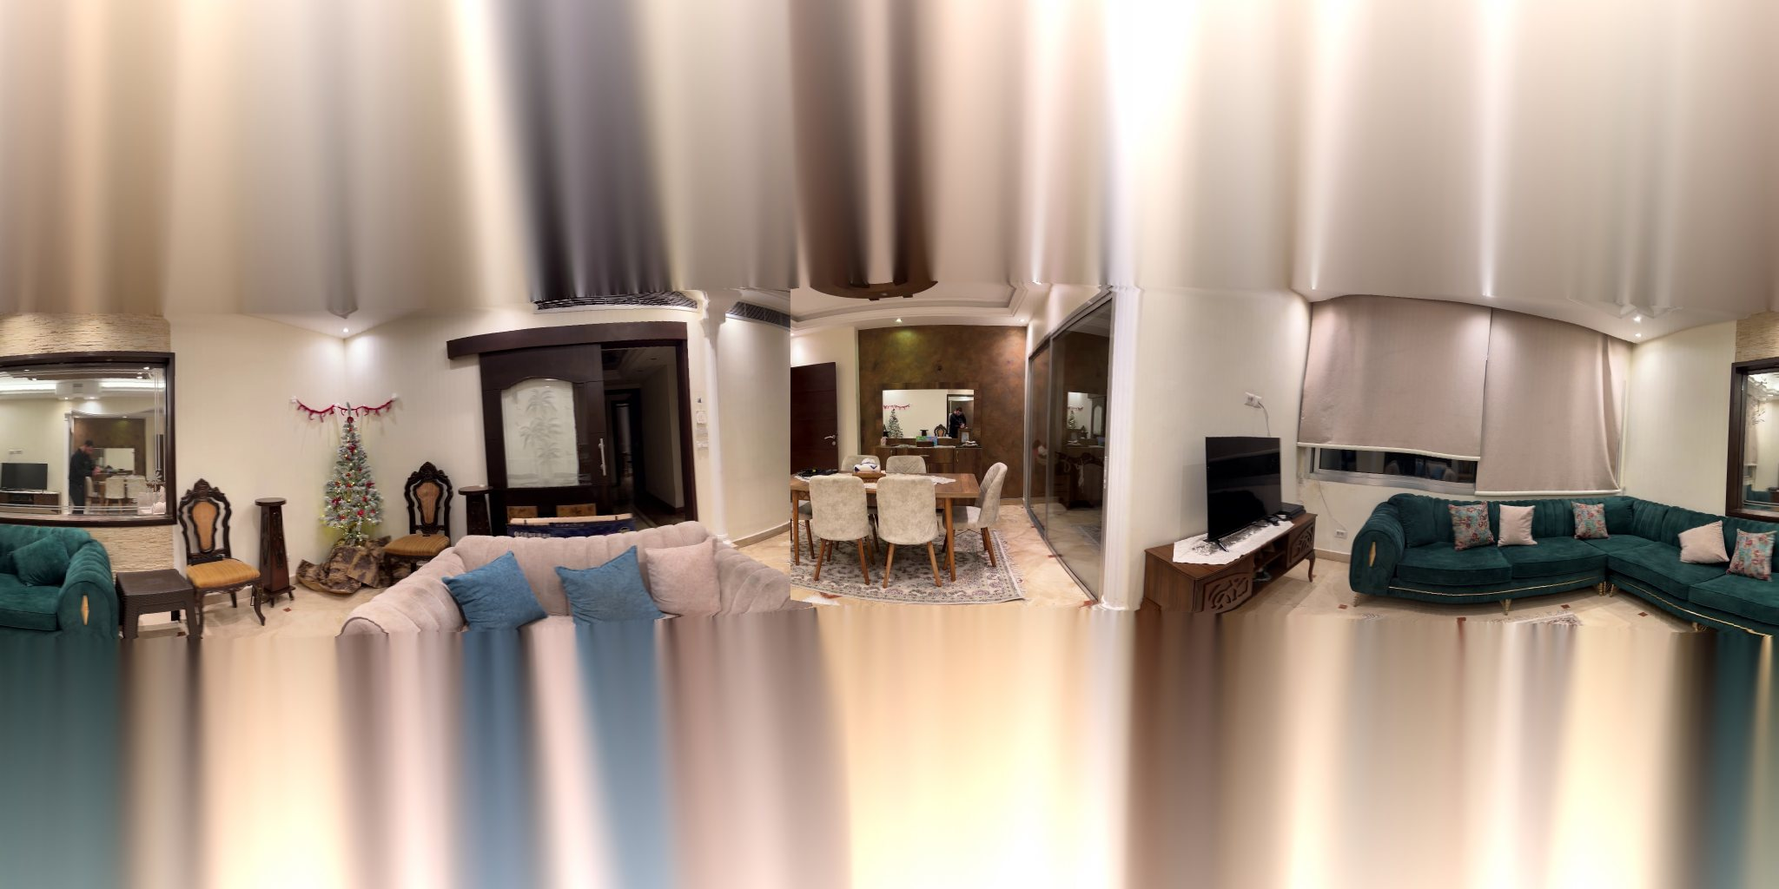
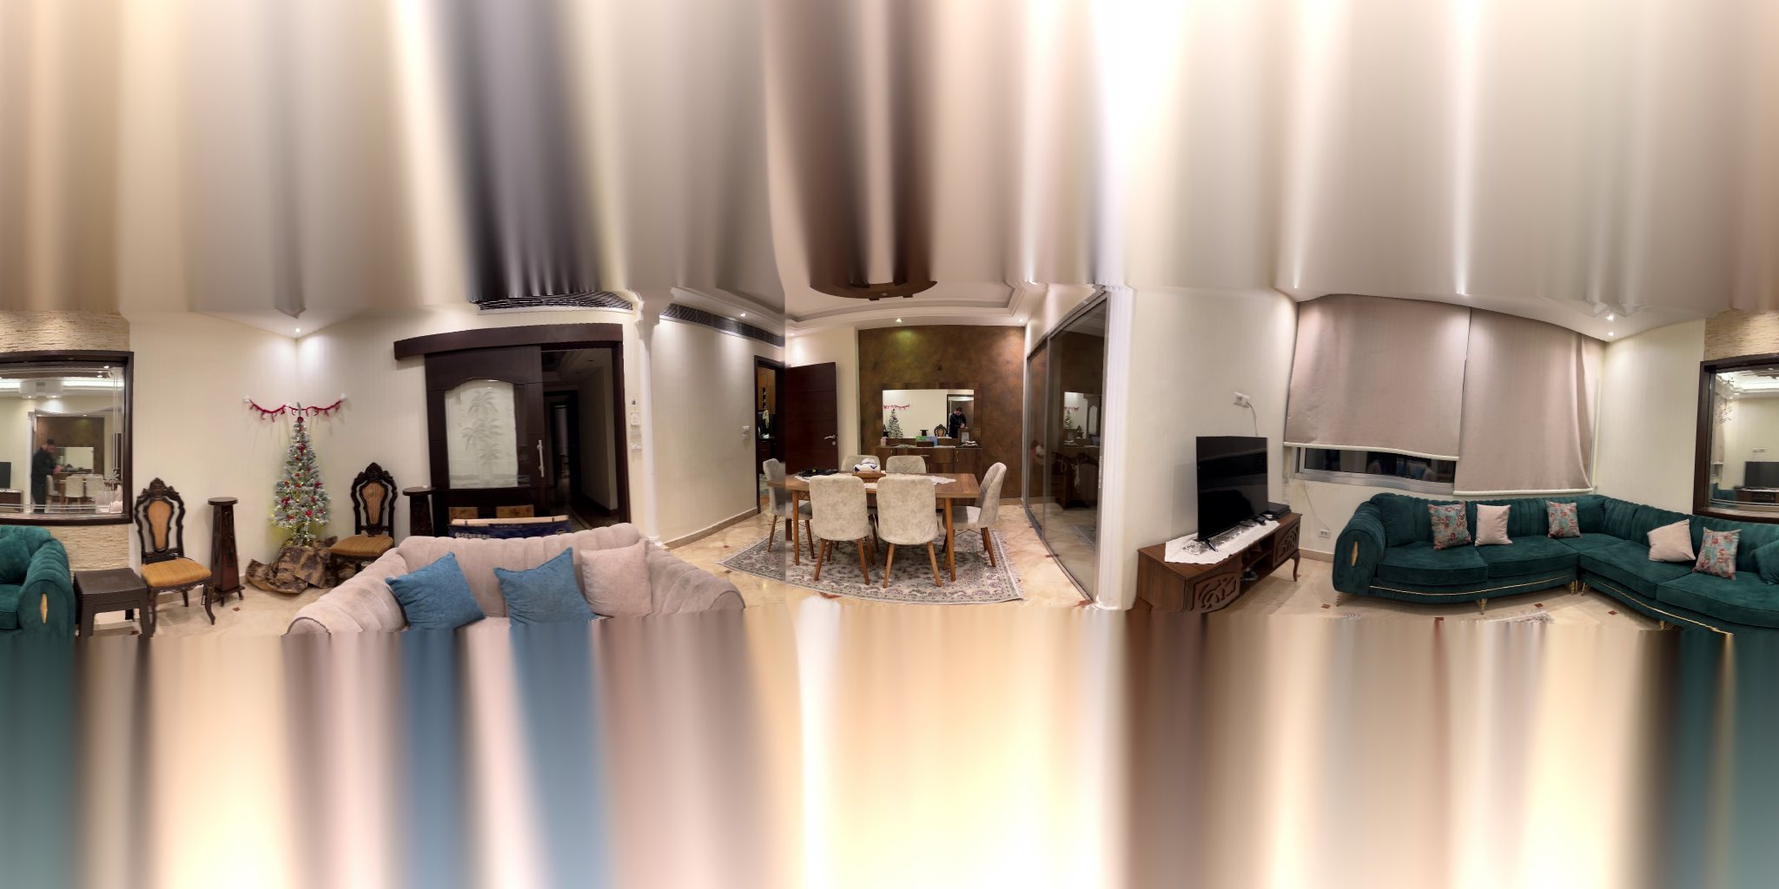
Rebuild the demo site from the fixed pipeline
showcase/panorama.jpg and every site asset are regenerated from output/fixed, so the
hero, the pipeline stages and the A/B crops all show output that has the wrap overlay
and the smoothing tear fixed.

Copy follows the code:

- the hero reports the 318° actually placed rather than the 332° measured
- the drift section's "what it costs" card described the endpoint tear, which no longer
  exists; it now explains the wrap overlap, how the tail is checked against the head,
  and the squeeze that keeps the ends apart
- the failed-pair card says pairs are averaged across the gap, which is what the code
  does now that the averaging branch is reachable
- wobble figures re-measured: pitch 16.1x quieter, roll 15.5x, both better than before
  because the endpoint fix removed the tail artefacts from the smoothed signal

diff --git a/docs/index.html b/docs/index.html
@@ -256,7 +256,7 @@ td.n{font-family:"IBM Plex Mono",monospace; color:var(--ink); font-variant-numer
     </div>
     <div class="hero-meta">
       <div><b>309</b><span>frames in</span></div>
-      <div><b>333°</b><span>recovered sweep</span></div>
+      <div><b>318°</b><span>sweep placed</span></div>
       <div><b>4096×2048</b><span>equirect out</span></div>
       <div><b>921</b><span>inliers / pair</span></div>
     </div>
@@ -336,8 +336,8 @@ td.n{font-family:"IBM Plex Mono",monospace; color:var(--ink); font-variant-numer
             <div class="facts">
               <div><span>model</span><span>H = K·R·K⁻¹</span></div>
               <div><span>one frame</span><span>4.0% of sphere</span></div>
-              <div><span>shown here</span><span>26 frames, 14.2%</span></div>
-              <div><span>full run</span><span>36.9% of sphere</span></div>
+              <div><span>shown here</span><span>26 frames, 13.7%</span></div>
+              <div><span>full run</span><span>36.6% of sphere</span></div>
             </div>
           </div>
         </div>
@@ -349,7 +349,7 @@ td.n{font-family:"IBM Plex Mono",monospace; color:var(--ink); font-variant-numer
             phone-height sweep never saw get filled from their surroundings. That's the image in the viewer above.</p></div>
             <div class="facts">
               <div><span>output</span><span>4096×2048 jpg</span></div>
-              <div><span>coverage</span><span>36.9% imaged</span></div>
+              <div><span>coverage</span><span>36.6% imaged</span></div>
               <div><span>recovered pairs</span><span>15 interpolated</span></div>
               <div><span>blend</span><span>configurable</span></div>
             </div>
@@ -423,22 +423,24 @@ td.n{font-family:"IBM Plex Mono",monospace; color:var(--ink); font-variant-numer
           <table>
             <thead><tr><th>Angle</th><th>Raw wobble</th><th>Smoothed</th><th></th></tr></thead>
             <tbody>
-              <tr><td>Pitch</td><td class="n">0.085°</td><td class="n">0.006°</td><td class="n">13.5× quieter</td></tr>
-              <tr><td>Roll</td><td class="n">0.123°</td><td class="n">0.024°</td><td class="n">5.2× quieter</td></tr>
-              <tr><td>Yaw</td><td class="n">0.209°</td><td class="n">0.278°</td><td class="n">left alone</td></tr>
+              <tr><td>Pitch</td><td class="n">0.084°</td><td class="n">0.005°</td><td class="n">16.1× quieter</td></tr>
+              <tr><td>Roll</td><td class="n">0.121°</td><td class="n">0.008°</td><td class="n">15.5× quieter</td></tr>
+              <tr><td>Yaw</td><td class="n">0.208°</td><td class="n">0.019°</td><td class="n">left alone</td></tr>
             </tbody>
           </table>
         </div>
         <p class="eyebrow" style="margin-top:4px">Wobble = std. dev. of the second difference, sweep removed</p>
       </div>
       <div class="card flagged">
-        <h3>And what it costs</h3>
-        <p>Averaging isn't free. Failed pairs — 15 of them here — get filled from their neighbours before the
-        window ever runs, so a bad estimate spreads a little before it's damped. And at the ends of the sequence the
-        window has nothing to average against: on this clip the last frames get dragged back and the final one snaps
-        forward by <b>5.4°</b>, against a largest honest step of 1.9°.</p>
-        <p>Fixes worth making: reflect the sequence at the edges instead of clamping the window, and taper the endpoints
-        instead of exempting them.</p>
+        <h3>Where drift shows up instead</h3>
+        <p>Smoothing quietens the wobble but cannot remove the error that accumulates along the chain. Over
+        308 pairs this run over-measures the sweep as <b>332°</b> of yaw. With a
+        40.2° field of view that is enough to close the circle, so the final frames would land on the same arc as
+        the first one — and they show a different wall entirely, matching frame 0 with 6 inliers out of 3,000
+        keypoints.</p>
+        <p>The pipeline now checks: it measures the real span, tries to match the tail against the head, and when
+        nothing matches it squeezes the sweep to <b>318°</b> so the two ends stop short of touching. The
+        correction is spread along the sequence rather than dumped at the join.</p>
       </div>
     </div>
   </div>
@@ -459,63 +461,63 @@ td.n{font-family:"IBM Plex Mono",monospace; color:var(--ink); font-variant-numer
         <span class="lbl">pitch</span><span class="val" id="s-pitch">—</span>
         <span class="lbl" style="margin-left:auto">click to aim the viewer</span>
       </div>
-      <div class="strip" id="strip"><button class="frame" data-i="0" data-yaw="0.00" data-pitch="-0.00" aria-label="Frame 0, yaw 0 degrees"><img src="assets/strip/f00.jpg" alt="" loading="lazy" width="64"><b>0°</b></button>
-<button class="frame" data-i="7" data-yaw="-0.22" data-pitch="-0.01" aria-label="Frame 7, yaw -0 degrees"><img src="assets/strip/f01.jpg" alt="" loading="lazy" width="64"><b>0°</b></button>
-<button class="frame" data-i="14" data-yaw="-0.91" data-pitch="-0.03" aria-label="Frame 14, yaw -1 degrees"><img src="assets/strip/f02.jpg" alt="" loading="lazy" width="64"><b>-1°</b></button>
-<button class="frame" data-i="21" data-yaw="-2.58" data-pitch="-0.07" aria-label="Frame 21, yaw -3 degrees"><img src="assets/strip/f03.jpg" alt="" loading="lazy" width="64"><b>-3°</b></button>
-<button class="frame" data-i="29" data-yaw="-6.49" data-pitch="-0.17" aria-label="Frame 29, yaw -6 degrees"><img src="assets/strip/f04.jpg" alt="" loading="lazy" width="64"><b>-6°</b></button>
-<button class="frame" data-i="36" data-yaw="-11.67" data-pitch="-0.37" aria-label="Frame 36, yaw -12 degrees"><img src="assets/strip/f05.jpg" alt="" loading="lazy" width="64"><b>-12°</b></button>
-<button class="frame" data-i="43" data-yaw="-17.83" data-pitch="-0.64" aria-label="Frame 43, yaw -18 degrees"><img src="assets/strip/f06.jpg" alt="" loading="lazy" width="64"><b>-18°</b></button>
-<button class="frame" data-i="50" data-yaw="-24.57" data-pitch="-0.93" aria-label="Frame 50, yaw -25 degrees"><img src="assets/strip/f07.jpg" alt="" loading="lazy" width="64"><b>-25°</b></button>
-<button class="frame" data-i="57" data-yaw="-31.19" data-pitch="-1.15" aria-label="Frame 57, yaw -31 degrees"><img src="assets/strip/f08.jpg" alt="" loading="lazy" width="64"><b>-31°</b></button>
-<button class="frame" data-i="64" data-yaw="-37.51" data-pitch="-1.41" aria-label="Frame 64, yaw -38 degrees"><img src="assets/strip/f09.jpg" alt="" loading="lazy" width="64"><b>-38°</b></button>
-<button class="frame" data-i="72" data-yaw="-44.92" data-pitch="-1.80" aria-label="Frame 72, yaw -45 degrees"><img src="assets/strip/f10.jpg" alt="" loading="lazy" width="64"><b>-45°</b></button>
-<button class="frame" data-i="79" data-yaw="-52.02" data-pitch="-2.39" aria-label="Frame 79, yaw -52 degrees"><img src="assets/strip/f11.jpg" alt="" loading="lazy" width="64"><b>-52°</b></button>
-<button class="frame" data-i="86" data-yaw="-59.36" data-pitch="-2.96" aria-label="Frame 86, yaw -59 degrees"><img src="assets/strip/f12.jpg" alt="" loading="lazy" width="64"><b>-59°</b></button>
-<button class="frame" data-i="93" data-yaw="-67.02" data-pitch="-3.53" aria-label="Frame 93, yaw -67 degrees"><img src="assets/strip/f13.jpg" alt="" loading="lazy" width="64"><b>-67°</b></button>
-<button class="frame" data-i="100" data-yaw="-74.97" data-pitch="-4.09" aria-label="Frame 100, yaw -75 degrees"><img src="assets/strip/f14.jpg" alt="" loading="lazy" width="64"><b>-75°</b></button>
-<button class="frame" data-i="107" data-yaw="-82.93" data-pitch="-4.61" aria-label="Frame 107, yaw -83 degrees"><img src="assets/strip/f15.jpg" alt="" loading="lazy" width="64"><b>-83°</b></button>
-<button class="frame" data-i="115" data-yaw="-91.68" data-pitch="-4.89" aria-label="Frame 115, yaw -92 degrees"><img src="assets/strip/f16.jpg" alt="" loading="lazy" width="64"><b>-92°</b></button>
-<button class="frame" data-i="122" data-yaw="-99.03" data-pitch="-5.09" aria-label="Frame 122, yaw -99 degrees"><img src="assets/strip/f17.jpg" alt="" loading="lazy" width="64"><b>-99°</b></button>
-<button class="frame" data-i="129" data-yaw="-106.30" data-pitch="-5.27" aria-label="Frame 129, yaw -106 degrees"><img src="assets/strip/f18.jpg" alt="" loading="lazy" width="64"><b>-106°</b></button>
-<button class="frame" data-i="136" data-yaw="-114.11" data-pitch="-5.47" aria-label="Frame 136, yaw -114 degrees"><img src="assets/strip/f19.jpg" alt="" loading="lazy" width="64"><b>-114°</b></button>
-<button class="frame" data-i="143" data-yaw="-121.75" data-pitch="-5.68" aria-label="Frame 143, yaw -122 degrees"><img src="assets/strip/f20.jpg" alt="" loading="lazy" width="64"><b>-122°</b></button>
-<button class="frame" data-i="150" data-yaw="-129.35" data-pitch="-5.79" aria-label="Frame 150, yaw -129 degrees"><img src="assets/strip/f21.jpg" alt="" loading="lazy" width="64"><b>-129°</b></button>
-<button class="frame" data-i="158" data-yaw="-138.27" data-pitch="-5.92" aria-label="Frame 158, yaw -138 degrees"><img src="assets/strip/f22.jpg" alt="" loading="lazy" width="64"><b>-138°</b></button>
-<button class="frame" data-i="165" data-yaw="-146.44" data-pitch="-6.21" aria-label="Frame 165, yaw -146 degrees"><img src="assets/strip/f23.jpg" alt="" loading="lazy" width="64"><b>-146°</b></button>
-<button class="frame" data-i="172" data-yaw="-155.58" data-pitch="-6.33" aria-label="Frame 172, yaw -156 degrees"><img src="assets/strip/f24.jpg" alt="" loading="lazy" width="64"><b>-156°</b></button>
-<button class="frame" data-i="179" data-yaw="-165.41" data-pitch="-6.26" aria-label="Frame 179, yaw -165 degrees"><img src="assets/strip/f25.jpg" alt="" loading="lazy" width="64"><b>-165°</b></button>
-<button class="frame" data-i="186" data-yaw="-175.76" data-pitch="-6.04" aria-label="Frame 186, yaw -176 degrees"><img src="assets/strip/f26.jpg" alt="" loading="lazy" width="64"><b>-176°</b></button>
-<button class="frame" data-i="193" data-yaw="173.71" data-pitch="-5.72" aria-label="Frame 193, yaw 174 degrees"><img src="assets/strip/f27.jpg" alt="" loading="lazy" width="64"><b>+174°</b></button>
-<button class="frame" data-i="201" data-yaw="161.95" data-pitch="-5.12" aria-label="Frame 201, yaw 162 degrees"><img src="assets/strip/f28.jpg" alt="" loading="lazy" width="64"><b>+162°</b></button>
-<button class="frame" data-i="208" data-yaw="152.23" data-pitch="-4.45" aria-label="Frame 208, yaw 152 degrees"><img src="assets/strip/f29.jpg" alt="" loading="lazy" width="64"><b>+152°</b></button>
-<button class="frame" data-i="215" data-yaw="142.83" data-pitch="-3.87" aria-label="Frame 215, yaw 143 degrees"><img src="assets/strip/f30.jpg" alt="" loading="lazy" width="64"><b>+143°</b></button>
-<button class="frame" data-i="222" data-yaw="133.79" data-pitch="-3.38" aria-label="Frame 222, yaw 134 degrees"><img src="assets/strip/f31.jpg" alt="" loading="lazy" width="64"><b>+134°</b></button>
-<button class="frame" data-i="229" data-yaw="125.05" data-pitch="-2.88" aria-label="Frame 229, yaw 125 degrees"><img src="assets/strip/f32.jpg" alt="" loading="lazy" width="64"><b>+125°</b></button>
-<button class="frame" data-i="236" data-yaw="116.61" data-pitch="-2.31" aria-label="Frame 236, yaw 117 degrees"><img src="assets/strip/f33.jpg" alt="" loading="lazy" width="64"><b>+117°</b></button>
-<button class="frame" data-i="244" data-yaw="107.15" data-pitch="-1.62" aria-label="Frame 244, yaw 107 degrees"><img src="assets/strip/f34.jpg" alt="" loading="lazy" width="64"><b>+107°</b></button>
-<button class="frame" data-i="251" data-yaw="98.66" data-pitch="-0.98" aria-label="Frame 251, yaw 99 degrees"><img src="assets/strip/f35.jpg" alt="" loading="lazy" width="64"><b>+99°</b></button>
-<button class="frame" data-i="258" data-yaw="89.92" data-pitch="-0.43" aria-label="Frame 258, yaw 90 degrees"><img src="assets/strip/f36.jpg" alt="" loading="lazy" width="64"><b>+90°</b></button>
-<button class="frame" data-i="265" data-yaw="80.40" data-pitch="-0.02" aria-label="Frame 265, yaw 80 degrees"><img src="assets/strip/f37.jpg" alt="" loading="lazy" width="64"><b>+80°</b></button>
-<button class="frame" data-i="272" data-yaw="70.57" data-pitch="0.25" aria-label="Frame 272, yaw 71 degrees"><img src="assets/strip/f38.jpg" alt="" loading="lazy" width="64"><b>+71°</b></button>
-<button class="frame" data-i="279" data-yaw="61.22" data-pitch="0.42" aria-label="Frame 279, yaw 61 degrees"><img src="assets/strip/f39.jpg" alt="" loading="lazy" width="64"><b>+61°</b></button>
-<button class="frame" data-i="287" data-yaw="52.34" data-pitch="0.71" aria-label="Frame 287, yaw 52 degrees"><img src="assets/strip/f40.jpg" alt="" loading="lazy" width="64"><b>+52°</b></button>
-<button class="frame" data-i="294" data-yaw="44.61" data-pitch="0.88" aria-label="Frame 294, yaw 45 degrees"><img src="assets/strip/f41.jpg" alt="" loading="lazy" width="64"><b>+45°</b></button>
-<button class="frame" data-i="301" data-yaw="36.65" data-pitch="0.89" aria-label="Frame 301, yaw 37 degrees"><img src="assets/strip/f42.jpg" alt="" loading="lazy" width="64"><b>+37°</b></button>
-<button class="frame" data-i="308" data-yaw="27.47" data-pitch="0.76" aria-label="Frame 308, yaw 27 degrees"><img src="assets/strip/f43.jpg" alt="" loading="lazy" width="64"><b>+27°</b></button></div>
+      <div class="strip" id="strip"><button class="frame" data-i="0" data-yaw="0.00" data-pitch="0.00" aria-label="Frame 0, yaw 0 degrees"><img src="assets/strip/f00.jpg" alt="" loading="lazy" width="64"><b>0°</b></button>
+<button class="frame" data-i="7" data-yaw="-0.20" data-pitch="-0.01" aria-label="Frame 7, yaw -0 degrees"><img src="assets/strip/f01.jpg" alt="" loading="lazy" width="64"><b>0°</b></button>
+<button class="frame" data-i="14" data-yaw="-0.87" data-pitch="-0.03" aria-label="Frame 14, yaw -1 degrees"><img src="assets/strip/f02.jpg" alt="" loading="lazy" width="64"><b>-1°</b></button>
+<button class="frame" data-i="21" data-yaw="-2.47" data-pitch="-0.07" aria-label="Frame 21, yaw -2 degrees"><img src="assets/strip/f03.jpg" alt="" loading="lazy" width="64"><b>-2°</b></button>
+<button class="frame" data-i="29" data-yaw="-6.21" data-pitch="-0.17" aria-label="Frame 29, yaw -6 degrees"><img src="assets/strip/f04.jpg" alt="" loading="lazy" width="64"><b>-6°</b></button>
+<button class="frame" data-i="36" data-yaw="-11.17" data-pitch="-0.37" aria-label="Frame 36, yaw -11 degrees"><img src="assets/strip/f05.jpg" alt="" loading="lazy" width="64"><b>-11°</b></button>
+<button class="frame" data-i="43" data-yaw="-17.06" data-pitch="-0.64" aria-label="Frame 43, yaw -17 degrees"><img src="assets/strip/f06.jpg" alt="" loading="lazy" width="64"><b>-17°</b></button>
+<button class="frame" data-i="50" data-yaw="-23.51" data-pitch="-0.93" aria-label="Frame 50, yaw -24 degrees"><img src="assets/strip/f07.jpg" alt="" loading="lazy" width="64"><b>-24°</b></button>
+<button class="frame" data-i="57" data-yaw="-29.84" data-pitch="-1.15" aria-label="Frame 57, yaw -30 degrees"><img src="assets/strip/f08.jpg" alt="" loading="lazy" width="64"><b>-30°</b></button>
+<button class="frame" data-i="64" data-yaw="-35.89" data-pitch="-1.41" aria-label="Frame 64, yaw -36 degrees"><img src="assets/strip/f09.jpg" alt="" loading="lazy" width="64"><b>-36°</b></button>
+<button class="frame" data-i="72" data-yaw="-42.98" data-pitch="-1.80" aria-label="Frame 72, yaw -43 degrees"><img src="assets/strip/f10.jpg" alt="" loading="lazy" width="64"><b>-43°</b></button>
+<button class="frame" data-i="79" data-yaw="-49.75" data-pitch="-2.41" aria-label="Frame 79, yaw -50 degrees"><img src="assets/strip/f11.jpg" alt="" loading="lazy" width="64"><b>-50°</b></button>
+<button class="frame" data-i="86" data-yaw="-56.74" data-pitch="-3.01" aria-label="Frame 86, yaw -57 degrees"><img src="assets/strip/f12.jpg" alt="" loading="lazy" width="64"><b>-57°</b></button>
+<button class="frame" data-i="93" data-yaw="-64.04" data-pitch="-3.61" aria-label="Frame 93, yaw -64 degrees"><img src="assets/strip/f13.jpg" alt="" loading="lazy" width="64"><b>-64°</b></button>
+<button class="frame" data-i="100" data-yaw="-71.65" data-pitch="-4.17" aria-label="Frame 100, yaw -72 degrees"><img src="assets/strip/f14.jpg" alt="" loading="lazy" width="64"><b>-72°</b></button>
+<button class="frame" data-i="107" data-yaw="-79.27" data-pitch="-4.69" aria-label="Frame 107, yaw -79 degrees"><img src="assets/strip/f15.jpg" alt="" loading="lazy" width="64"><b>-79°</b></button>
+<button class="frame" data-i="115" data-yaw="-87.65" data-pitch="-4.97" aria-label="Frame 115, yaw -88 degrees"><img src="assets/strip/f16.jpg" alt="" loading="lazy" width="64"><b>-88°</b></button>
+<button class="frame" data-i="122" data-yaw="-94.70" data-pitch="-5.17" aria-label="Frame 122, yaw -95 degrees"><img src="assets/strip/f17.jpg" alt="" loading="lazy" width="64"><b>-95°</b></button>
+<button class="frame" data-i="129" data-yaw="-101.66" data-pitch="-5.34" aria-label="Frame 129, yaw -102 degrees"><img src="assets/strip/f18.jpg" alt="" loading="lazy" width="64"><b>-102°</b></button>
+<button class="frame" data-i="136" data-yaw="-109.12" data-pitch="-5.52" aria-label="Frame 136, yaw -109 degrees"><img src="assets/strip/f19.jpg" alt="" loading="lazy" width="64"><b>-109°</b></button>
+<button class="frame" data-i="143" data-yaw="-116.42" data-pitch="-5.71" aria-label="Frame 143, yaw -116 degrees"><img src="assets/strip/f20.jpg" alt="" loading="lazy" width="64"><b>-116°</b></button>
+<button class="frame" data-i="150" data-yaw="-123.69" data-pitch="-5.82" aria-label="Frame 150, yaw -124 degrees"><img src="assets/strip/f21.jpg" alt="" loading="lazy" width="64"><b>-124°</b></button>
+<button class="frame" data-i="158" data-yaw="-132.22" data-pitch="-5.95" aria-label="Frame 158, yaw -132 degrees"><img src="assets/strip/f22.jpg" alt="" loading="lazy" width="64"><b>-132°</b></button>
+<button class="frame" data-i="165" data-yaw="-140.04" data-pitch="-6.24" aria-label="Frame 165, yaw -140 degrees"><img src="assets/strip/f23.jpg" alt="" loading="lazy" width="64"><b>-140°</b></button>
+<button class="frame" data-i="172" data-yaw="-148.79" data-pitch="-6.37" aria-label="Frame 172, yaw -149 degrees"><img src="assets/strip/f24.jpg" alt="" loading="lazy" width="64"><b>-149°</b></button>
+<button class="frame" data-i="179" data-yaw="-158.20" data-pitch="-6.30" aria-label="Frame 179, yaw -158 degrees"><img src="assets/strip/f25.jpg" alt="" loading="lazy" width="64"><b>-158°</b></button>
+<button class="frame" data-i="186" data-yaw="-168.07" data-pitch="-6.09" aria-label="Frame 186, yaw -168 degrees"><img src="assets/strip/f26.jpg" alt="" loading="lazy" width="64"><b>-168°</b></button>
+<button class="frame" data-i="193" data-yaw="-178.07" data-pitch="-5.77" aria-label="Frame 193, yaw -178 degrees"><img src="assets/strip/f27.jpg" alt="" loading="lazy" width="64"><b>-178°</b></button>
+<button class="frame" data-i="201" data-yaw="170.75" data-pitch="-5.18" aria-label="Frame 201, yaw 171 degrees"><img src="assets/strip/f28.jpg" alt="" loading="lazy" width="64"><b>+171°</b></button>
+<button class="frame" data-i="208" data-yaw="161.44" data-pitch="-4.52" aria-label="Frame 208, yaw 161 degrees"><img src="assets/strip/f29.jpg" alt="" loading="lazy" width="64"><b>+161°</b></button>
+<button class="frame" data-i="215" data-yaw="152.45" data-pitch="-3.94" aria-label="Frame 215, yaw 152 degrees"><img src="assets/strip/f30.jpg" alt="" loading="lazy" width="64"><b>+152°</b></button>
+<button class="frame" data-i="222" data-yaw="143.81" data-pitch="-3.45" aria-label="Frame 222, yaw 144 degrees"><img src="assets/strip/f31.jpg" alt="" loading="lazy" width="64"><b>+144°</b></button>
+<button class="frame" data-i="229" data-yaw="135.44" data-pitch="-2.95" aria-label="Frame 229, yaw 135 degrees"><img src="assets/strip/f32.jpg" alt="" loading="lazy" width="64"><b>+135°</b></button>
+<button class="frame" data-i="236" data-yaw="127.36" data-pitch="-2.38" aria-label="Frame 236, yaw 127 degrees"><img src="assets/strip/f33.jpg" alt="" loading="lazy" width="64"><b>+127°</b></button>
+<button class="frame" data-i="244" data-yaw="118.31" data-pitch="-1.69" aria-label="Frame 244, yaw 118 degrees"><img src="assets/strip/f34.jpg" alt="" loading="lazy" width="64"><b>+118°</b></button>
+<button class="frame" data-i="251" data-yaw="110.19" data-pitch="-1.05" aria-label="Frame 251, yaw 110 degrees"><img src="assets/strip/f35.jpg" alt="" loading="lazy" width="64"><b>+110°</b></button>
+<button class="frame" data-i="258" data-yaw="101.83" data-pitch="-0.49" aria-label="Frame 258, yaw 102 degrees"><img src="assets/strip/f36.jpg" alt="" loading="lazy" width="64"><b>+102°</b></button>
+<button class="frame" data-i="265" data-yaw="92.73" data-pitch="-0.08" aria-label="Frame 265, yaw 93 degrees"><img src="assets/strip/f37.jpg" alt="" loading="lazy" width="64"><b>+93°</b></button>
+<button class="frame" data-i="272" data-yaw="83.39" data-pitch="0.21" aria-label="Frame 272, yaw 83 degrees"><img src="assets/strip/f38.jpg" alt="" loading="lazy" width="64"><b>+83°</b></button>
+<button class="frame" data-i="279" data-yaw="74.49" data-pitch="0.41" aria-label="Frame 279, yaw 74 degrees"><img src="assets/strip/f39.jpg" alt="" loading="lazy" width="64"><b>+74°</b></button>
+<button class="frame" data-i="287" data-yaw="66.01" data-pitch="0.72" aria-label="Frame 287, yaw 66 degrees"><img src="assets/strip/f40.jpg" alt="" loading="lazy" width="64"><b>+66°</b></button>
+<button class="frame" data-i="294" data-yaw="58.62" data-pitch="0.89" aria-label="Frame 294, yaw 59 degrees"><img src="assets/strip/f41.jpg" alt="" loading="lazy" width="64"><b>+59°</b></button>
+<button class="frame" data-i="301" data-yaw="50.41" data-pitch="0.90" aria-label="Frame 301, yaw 50 degrees"><img src="assets/strip/f42.jpg" alt="" loading="lazy" width="64"><b>+50°</b></button>
+<button class="frame" data-i="308" data-yaw="42.22" data-pitch="0.79" aria-label="Frame 308, yaw 42 degrees"><img src="assets/strip/f43.jpg" alt="" loading="lazy" width="64"><b>+42°</b></button></div>
     </div>
     <div class="two" style="margin-top:34px">
       <div class="card">
         <h3>Handheld, and it shows</h3>
         <p>The sweep starts almost stationary — 0.03° per frame for the first dozen — then settles to a steady
-        1.08° per frame and finishes mid-motion at about 1.2°. Pitch wanders over 7.2° across the sweep because
+        1.08° per frame and finishes mid-motion at about 1.2°. Pitch wanders over 7.3° across the sweep because
         an arm is not a tripod; that wander is exactly what the rotation chain has to absorb.</p>
       </div>
       <div class="card">
         <h3>When matching fails</h3>
         <p>15 of 308 pairs never reached the 200-inlier threshold — blank wall, blown
-        highlight, too fast a turn. Rather than dropping those frames, the pipeline borrows the rotation from a
-        neighbour, or averages the two around it, and carries on.</p>
+        highlight, too fast a turn. Rather than dropping those frames, the pipeline averages the rotations either side
+        of the gap, falling back to one neighbour only when the other is missing too.</p>
       </div>
     </div>
   </div>
